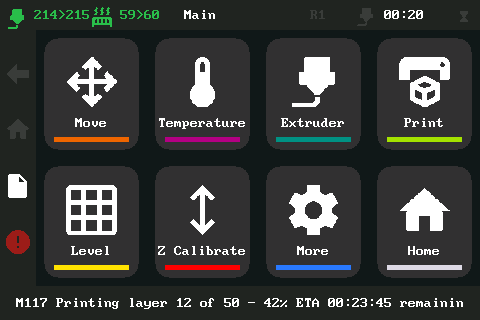
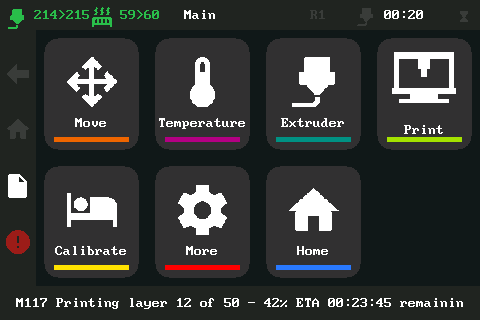
gui: Calibrate menu; Level/Z-Probe/Limits/Advanced move into it
- main: Calibrate (bed-level icon) replaces the Level and Z-Probe tiles
- Calibrate is a 4x2 grid: Level, Z-Probe, Limits, Advanced, Back
- Limits leaves More (the 2/2 page is gone) and Advanced leaves Extrude
  (the 2/2 page is gone); both rails now go back to Calibrate

diff --git a/mcu/st7796.py b/mcu/st7796.py
@@ -55,10 +55,19 @@ GUI_SCREENS = {
         ("Temperature", "heatup", ('scr', 'temperature')),
         ("Extruder", "extrude", ('scr', 'extrude')),
         ("Print", "print", ('scr', 'print')),
-        ("Level", "bedmesh", ('scr', 'mesh')),
-        ("Z-Probe", "zoffset", ('scr', 'probe')),
+        ("Calibrate", "bedlevel", ('scr', 'calibrate')),
         ("More", "settings", ('scr', 'more')),
         ("Home", "home", 'G28'),
+        None,
+    ],
+    # Tuning menus that used to live in main / Extrude / More.
+    'calibrate': [
+        ("Level", "bedmesh", ('scr', 'mesh')),
+        ("Z-Probe", "zoffset", ('scr', 'probe')),
+        ("Limits", "limits", ('scr', 'limits')),
+        ("Advanced", "cog", ('scr', 'advanced')),
+        ("Back", "back", ('scr', 'main')),
+        None, None, None,
     ],
     'move': [
         ("Home All", "home", 'G28'),
@@ -88,12 +97,6 @@ GUI_SCREENS = {
         ("Nozzle 200", "fire", 'M104 S200'),
         ("Nozzle 240", "fire", 'M104 S240'),
         ("E 1mm", "extrude", ('ext',)),
-        ("More...", "right", ('scr', 'extrude2')),
-    ],
-    'extrude2': [
-        ("Advanced", "cog", ('scr', 'advanced')),
-        None, None, None, None, None, None,
-        ("Back", "back", ('scr', 'extrude')),
     ],
     # 'probe' (Z-Probe) is drawn by _probe_view_ops: see Z_STEPS below.
     'probe': [],
@@ -128,12 +131,6 @@ GUI_SCREENS = {
         ("Network", "network", ('scr', 'network')),
         ("Beep", "alert", ('beep',)),
         ("Motors OFF", "power", 'M84'),
-        ("More...", "right", ('scr', 'more2')),
-    ],
-    'more2': [
-        ("Limits", "limits", ('scr', 'limits')),
-        None, None, None, None, None, None,
-        ("Back", "back", ('scr', 'more')),
     ],
 }
 
@@ -222,8 +219,7 @@ POPUP_ITEMS = {
 GUI_TITLES = {'ptune': 'Tune', 'filament': 'Filament',
               'estop': 'Confirm', 'mesh': 'Level', 'probe': 'Z-Probe',
               'meshadj': 'Adjust', 'advanced': 'Advanced',
-              'limits': 'Limits', 'more2': 'More 2/2',
-              'extrude2': 'Extruder 2/2'}
+              'limits': 'Limits', 'calibrate': 'Calibrate'}
 
 # Sentinel stored in the grid for a cell holding an icon (drawn by write_glyph).
 ICON = 0x100
@@ -1348,9 +1344,8 @@ class ST7796:
                         bw, bh, idx, item))
         return out
     def _gui_rail(self):
-        back = {'meshadj': 'mesh', 'advanced': 'extrude',
-                'limits': 'more', 'more2': 'more',
-                'extrude2': 'extrude'}.get(self.gui_screen)
+        back = {'meshadj': 'mesh', 'advanced': 'calibrate',
+                'limits': 'calibrate'}.get(self.gui_screen)
         if back is None:
             back = ('scr', 'print') if self.gui_screen in ('ptune',
                                                            'filament') \
